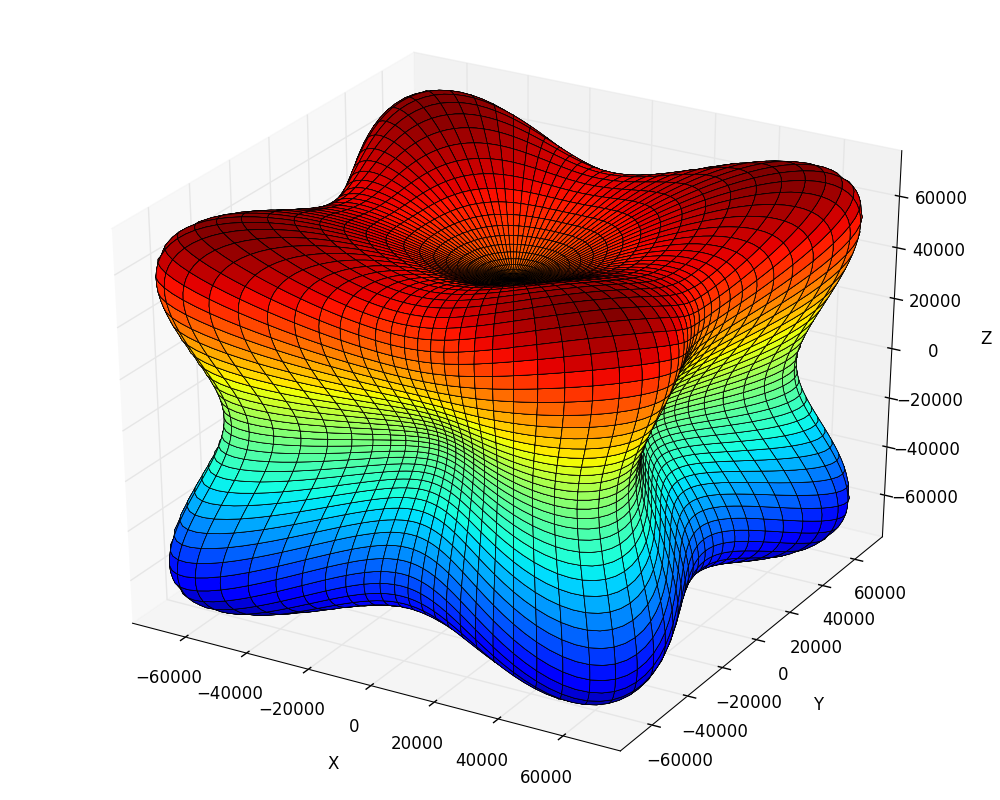
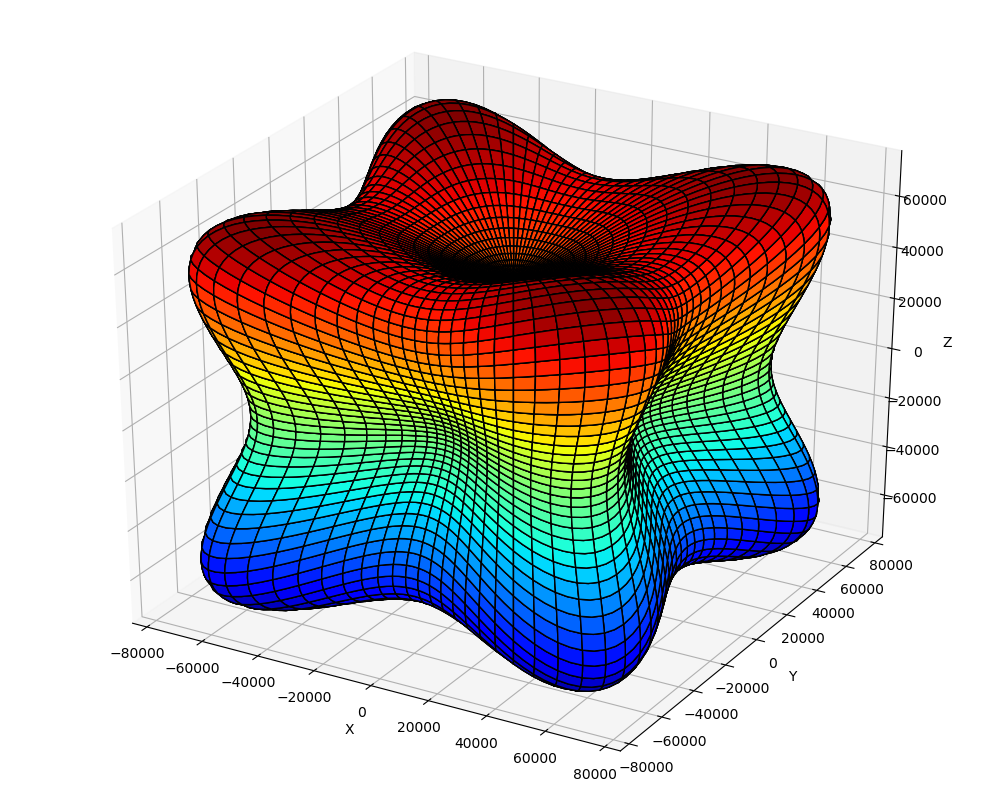
updated example to python3

diff --git a/examples/plotting/cubic_elasticity.py b/examples/plotting/cubic_elasticity.py
@@ -3,7 +3,7 @@ from matplotlib import pyplot as plt, cm
 import os
 import numpy as np
 
-print 'plotting cubic elasticity...'
+print('plotting cubic elasticity...')
 fig = plt.figure(figsize=(10, 8))
 plt.subplots_adjust(top=1, bottom=0, left=0, right=1)
 ax = fig.gca(projection='3d')
@@ -25,9 +25,7 @@ s11 =  2.87e-05
 s12 = -1.29e-05
 s44 =  1.82e-05
 '''
-print 'elsatic stiffness s11 =', s11
-print 'elsatic stiffness s12 =', s12
-print 'elsatic stiffness s44 =', s44
+print('elastic compliance s11 =%.6f, s12 =%.6f, s44 =%.6f' % (s11, s12, s44))
 
 beta = 2. * s11 - 2. * s12 - s44
 alpha = s11
@@ -42,17 +40,22 @@ n2 = np.sin(theta) * np.sin(phi)
 n3 = np.cos(phi)
 
 # rho = alpha - (beta*(np.cos(theta)**2*np.sin(theta)**2*np.sin(phi)**4 + np.cos(phi)**2*np.sin(phi)**2));
-rho = alpha - beta * (n1 ** 2 * n2 ** 2 + n3 ** 2 * (n1 ** 2 + n2 ** 2));
-rho = 1. / rho;
+rho = alpha - beta * (n1 ** 2 * n2 ** 2 + n3 ** 2 * (n1 ** 2 + n2 ** 2))
+rho = 1. / rho
 
-x = rho * np.sin(phi) * np.cos(theta);
-y = rho * np.sin(phi) * np.sin(theta);
-z = rho * np.cos(phi);
-ax.plot_surface(x, y, z, rstride=2, cstride=2, cmap=cm.jet, \
-                linewidth=0.5, antialiased=True)
+x = rho * np.sin(phi) * np.cos(theta)
+y = rho * np.sin(phi) * np.sin(theta)
+z = rho * np.cos(phi)
+ax.plot_surface(x, y, z, rstride=2, cstride=2, cmap=cm.jet, edgecolor='k',
+                linewidth=1.0, antialiased=True)
 ax.set_xlabel('X')
 ax.set_ylabel('Y')
 ax.set_zlabel('Z')
 image_name = os.path.splitext(__file__)[0] + '.png'
 plt.savefig(image_name, format='png')
-print 'done'
+
+from matplotlib import image
+
+image.thumbnail(image_name, 'thumb_' + image_name, 0.2)
+
+print('done')
